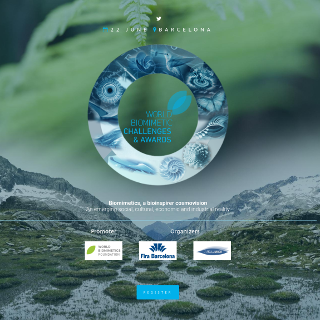
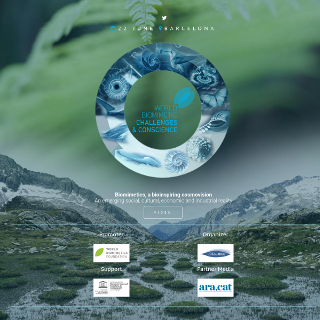
nova entrada sobre els WBCHaC.

diff --git a/_posts/2016-06-07-world-biomimetic-challenges-and-awards-una-nova-web-app.md b/_posts/2016-06-07-world-biomimetic-challenges-and-awards-una-nova-web-app.md
@@ -1,11 +1,11 @@
 ---
 comments: true
-date: 2016-04-06 11:48:19
+date: 2016-06-07 11:48:19
 og: true
 og-type: article
 layout: blog
-slug: "world-biomimetic-challenges-and-awards-una-nova-web-app"
-title: "World Biomimeitc Challenges and Awards. Una nova web app"
+slug: "world-biomimetic-challenges-and-conscience-una-nova-web-app"
+title: "World Biomimetic Challenges and Conscience. Una nova web app"
 categories: 
   - comunicació
   - treballs
@@ -13,16 +13,16 @@ categories:
 tags: "case-study"
 "featured-img": true
 "featured-img-url": "world-biomimetic-challenges-and-awards-case-study.png"
-meta: "World Biomimeitc Challenges and Awards. Una nova web app"
-excerpt: "La creació d'aplicacions web progressives és el futur de la Web, ja que l'arquitectura d'aplicació tipus closca, el·liminarà la necessitat d'aplicacions híbrides."
+meta: "World Biomimetic Challenges and Conscience. Una nova web app"
+excerpt: "World Biomimetic Challenges and Conscience és una nova web app progressiva que fa ús de les vitamines correctes en el desenvolupament web"
 author: oxygen
 published: true
-keywords: "biomimetics, screens, digital, app, challenges, polymer, api, service, worker, chrome, push, notifications"
+keywords: "biomimetics, screens, digital, app, challenges, api, service, worker, chrome, push, notifications"
 ---
 
->... the first edition of World Biomimetics Challenges & Awards... is well underway for the coming World Biomimetic Experience Summit 2017 that will get to know a new social, economic and industrial reality by a bioinspirer Cosmo vision.<footer>&mdash; <cite><a href="{{ page.url }}" title="{{ page.title }}">Daniel Fuentes</a></cite></footer>
+<blockquote>the first edition of World Biomimetics Challenges & Conscience... is well underway for the coming World Biomimetic Experience Summit 2017 that will get to know a new social, economic and industrial reality by a bioinspiring Cosmo vision.<footer>&mdash; <cite><a href="{{ page.url }}" title="{{ page.title }}">Daniel Fuentes</a></cite></footer></blockquote>
 
-El proper 22 de juny (2016) tindrà lloc la primera edició dels 'World Biomimetic Challenges and Awards'. Un esdeveniment de caire internacional que pretén: 
+El proper 22 de juny (2016) tindrà lloc la primera edició dels 'World Biomimetic Challenges and Conscience'. Un esdeveniment de caire internacional que pretén: 
 
 - Donar a conèixer la biomimètica per contribuir a la seva implementació en la societat, atenent al desenvolupament integral de l'ésser humà, de les comunitats que el formen i del planeta que el sustenta.
 - Apropar la dimensió creativa de la Naturalesa als límits de la imaginació humana.
@@ -30,11 +30,11 @@ El proper 22 de juny (2016) tindrà lloc la primera edició dels 'World Biomimet
 - Donar coneixement del 1st World Biomimetics Experience Summit 2017.
 - Fomentar un espai de consciència col·lectiva desde una cosmovisió biomimètica.
 
-## Els WBChA, una sigle page web app
+## Els WBChaC, una sigle page web app
 
-[Els WBChA](https://www.biomimeticchallengesandawards.com/) estan concebuts com una single page web app, de manera què **en un sol "html" hi troben tot el que cal per posicionar l'esdevinent a Internet**. És a dir, en accedir a [https://www.biomimeticchallengesandawards.com/](https://www.biomimeticchallengesandawards.com/) ho tenim tot: el què, el qui, el quan i l'on harmònicament distribuït amb diferents "call to action."
+[Els WBChaC](https://www.biomimeticchallengesandawards.com/) estan concebuts com una single page web app, de manera què **en un sol "html" hi troben tot el que cal per posicionar l'esdevinent a Internet**. És a dir, en accedir a [https://www.biomimeticchallengesandawards.com/](https://www.biomimeticchallengesandawards.com/) ho tenim tot: el què, el qui, el quan i l'on harmònicament distribuït amb diferents "call to action."
 
-Hem desenvolupat la pàgina d'un esdeveniment i l'hem dotat d'elements de "[progressive web app](/progressive-web-apps-el-futur-de-la-web/)": **notificacions push i accés offline**.
+Hem desenvolupat la pàgina d'un esdeveniment i l'hem dotat d'elements de "[progressive web app](/progressive-web-apps-el-futur-de-la-web/)": **notificacions push i "add to home"**.
 
 ## El passat
 
@@ -42,7 +42,7 @@ Hem desenvolupat la pàgina d'un esdeveniment i l'hem dotat d'elements de "[prog
 
 ## El Futur
 
-Hi ha yna nova arquitectura que ajudarà a tancar la bretxa entre el rendiment de la web i el de les aplicacions natives i, finalment, pot proporcionar **la solució per a la creació d'aplicacions i llocs web que són ràpids i fiables a l'era mòbil**.
+Hi ha una nova arquitectura que ajudarà a tancar la bretxa entre el rendiment de la web i el de les aplicacions natives i, finalment, pot proporcionar **la solució per a la creació d'aplicacions i llocs web que són ràpids i fiables a l'era mòbil**.
 
 Les Aplicacions web progressives ("progressive web apps") és un concepte [exposat per primer cop per l'enginyer de Google Alex Russell el juny de 2015](https://infrequently.org/2015/06/progressive-apps-escaping-tabs-without-losing-our-soul/ "Progressive Web Apps: Escaping Tabs Without Losing Our Soul &#8211; Infrequently Noted"). En poques paraules, les aplicacions web progressives comencen com pestanyes al navegador Chrome i **esdevenen progressivament més "aplicació"** a mida que més persones les utilitzen, fins al punt en què poden ser afegides a la pantalla principal del telèfon i tenir accés a propietats d'aplicació com ara notificacions i ús sense connexió. Les aplicacions web progressives són "linkables" via URL, completament responsives i segures.
 
@@ -59,35 +59,18 @@ D'aquesta manera, la "closca" ("shell") de l'aplicació és **lliurada de manera
 
 <figure class="hidden-xs hidden-sm ox_animate_when_almost_visible ox_right-to-left"><img src="/assets/img/world-biomimetic-challenges-and-awards-full-width-snapshot.png" /><figcaption><p>digitalartbarcelona.com, el millor web possible per a la II Mostra Simultània d'Art Digital</p></figcaption></figure>
 
-## Com a mostra un botó: ArtinpocketShowcase
+## I els WBChaC què han de dir?
 
-La implementació dels "Service Workers" juntament amb l'arquitectura tipus "closca" tot just està començant. Ara bé, totes les eines ja estan disponibles (en diversos graus de maduresa). Tot és a punt per als desenvolupadors que ja vulguin fer el pas.
+La implementació dels "Service Workers" juntament amb l'arquitectura tipus "closca" tot just està començant. Ara bé, totes les eines ja estan disponibles (en diversos graus de maduresa). Tot és a punt per als desenvolupadors que ja vulguin fer el pas. De fet, en el darrer **[Google I/O 2016](https://events.google.com/io2016/ "Google I/O 2016")** es va donar com a solució estàndard alhora d'enfocar un nou projecte web
 
-A **Oxygen** apostem de totes totes per la construcció d'app webs que dugin a la millor experiència possible als seus usuaris per mitjà de les millors tecnologies disponibles en cada moment. És per això que hem creat **[Artinpocketshowcase](https://artinpocketshowcase.appspot.com/)**, una mostra de les possibilitats reals d'una aplicació web progressiva. Artinpocketshowcase és<sup><a href="#fn1" id="r1">[1]</a></sup>:
+A **Oxygen** apostem de totes totes per la construcció d'app webs que dugin a la millor experiència possible als seus usuaris per mitjà de les millors tecnologies disponibles en cada moment. És per això que hem creat **[WBChaC](https://www.biomimeticchallengesandawards.com/)**, una mostra de les possibilitats reals d'una aplicació web progressiva. WBChaC és<sup><a href="#fn1" id="r1">[1]</a></sup>:
 
 - Plenament responsiva
-- De càrrega gairebé instantània
-- Indepentent de la connectivitat, ja que funciona "offline"
 - Instal·lable
 - Atractiva ja que disposa de la capacitat per retenir els usuaris via notifacions no intrusives de nous contignuts.
-- Modular via Polymer
+- Rica en dades estructurades
 
-En aquest projecte hem seguit apostant pels [web components](http://webcomponents.org/ "WebComponents.org"), una veritable revolució en el desenvolupament web, per mitjà de [Polymer](http://www.polymer-project.org/ "Welcome - Polymer"), l'"opinionated framework" creat per Google.
-
-<pre>
-  <code>
-        &#60;template is="dom-if" if="&#123;&#123;article.categoryaday&#125;&#125;" restamp="true"&#62;
-          &#60;section class="main"&#62;
-              &#60;template is="dom-repeat" items="&#123;&#123;article.desc&#125;&#125;"&#62;
-                &#60;dl&#62;
-                  &#60;dt&#62;&#60;strong&#62;&#123;&#123;item.pregunta&#125;&#125;&#60;/strong&#62;&#60;/dt&#62;
-                  &#60;dd&#62;&#123;&#123;item.resposta&#125;&#125;&#60;/dd&#62;
-                &#60;/dl&#62;
-              &#60;/template&#62;
-            &#60;/section&#62;
-        &#60;/template&#62;
-  </code>
-</pre>
+En aquest projecte hem seguit apostant per un ús intensiu de dades estructurades via [JSON-LD](http://json-ld.org/ "JSON for linked data"), que permet millorar la cercabilitat i per tant, la descoberta de nous continguts presents al web. A partir d'una sigle page app, progressivament es construeix un entrament de més de 100 URL's.
 
 A [Oxygen.cat](http://www.oxygen.cat/) tenim la voluntat d'intentar anar un pas per endavant, **oferint allò que els nostres clients es mereixen: el millor servei i la millor innovació**!
 

diff --git a/_posts/2015-12-08-progressive-web-apps-el-futur-de-la-web.md b/_posts/2015-12-08-progressive-web-apps-el-futur-de-la-web.md
@@ -20,7 +20,10 @@ published: true
 keywords: "artinpocket, screens, digital, app, progressive, shell, polymer, api, service, worker, chrome, push, notifications"
 ---
 
->... La creació d'aplicacions web progressives és el futur de la Web, ja que l'arquitectura d'aplicació tipus closca, el·liminarà la necessitat d'aplicacions híbrides.<footer>&mdash; <cite><a href="{{ page.url }}" title="{{ page.title }}">Ramon Gil</a></cite></footer>
+<blockquote>
+  <p>... La creació d'aplicacions web progressives és el futur de la Web, ja que l'arquitectura d'aplicació tipus closca, el·liminarà la necessitat d'aplicacions híbrides.</p>
+  <footer>&mdash; <cite><a href="{{ page.url }}" title="{{ page.title }}">Ramon Gil</a></cite></footer>
+</blockquote>
 
 ## El passat
 
